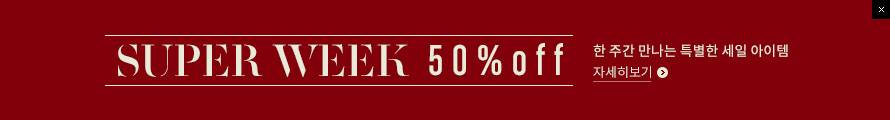
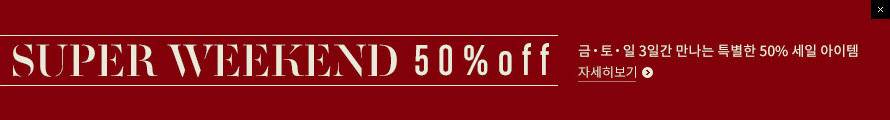
리복 수퍼위켄드

diff --git a/app/html/reebok/weekendSale.html b/app/html/reebok/weekendSale.html
@@ -68,10 +68,10 @@ function classChangeOlt(num,eleId){
 
 		<!-- 슈퍼위켄드 배너 -->
 		<div class="top_bnn" id="div_top_banner" style="text-align: center; display: block; background:#82000a;">
-			<img src="http://image.reebok.co.kr/images/reebok/event/bg_topbanner_weekend_sale.jpg?v=1" alt="" usemap="#topbnn">
+			<img src="http://image.reebok.co.kr/images/reebok/event/bg_topbanner_week_sale.jpg" alt="" usemap="#topbnn">
 			<map name="topbnn" id="topbnn">
 				<area shape="rect" coords="871,0,890,19" href="#" alt="탑배너 닫기">
-				<area shape="rect" coords="0,0,890,120" href="#" alt="슈퍼위켄드 링크">
+				<area shape="rect" coords="0,20,890,120" href="#" alt="슈퍼위켄드 링크">
 			</map>
 		</div>
 		<!-- // 슈퍼위켄드 배너 END -->
